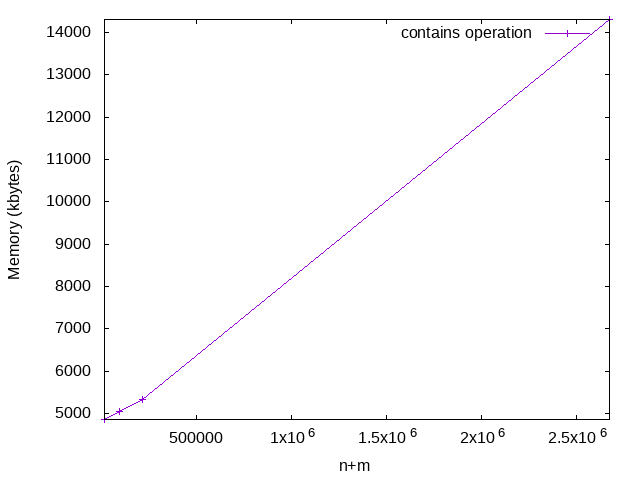
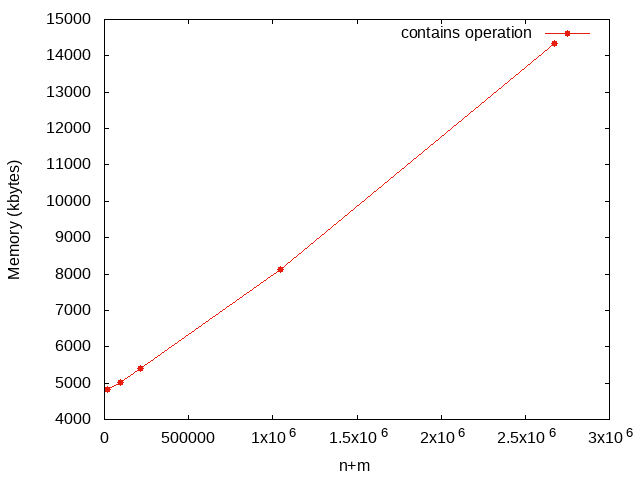
Improve plots

diff --git a/evaluation/contains/contains.cpp b/evaluation/contains/contains.cpp
@@ -59,7 +59,6 @@ int main(int argc, char *argv[]) {
         std::ostringstream path;
         path << argv[1];
         std::ifstream test_case(path.str());
-        uint arcs = 0;
         double sum = 0;
 
         dynamic_ktree::DKtree<2> tree;
@@ -79,14 +78,13 @@ int main(int argc, char *argv[]) {
                 if (substrings[0] == "a") {
                     clock_t start = clock();
                     tree.contains(x, y);
-                    sum += clock() - start;
-                    ++arcs;
+                    clock_t time_iter = clock() - start;
+                    sum = max(sum, time_iter);
 //                    sysinfo (&memInfo);
 //                    totalPhysMem = max( totalPhysMem, getValue());
                 }
             }
         }
-        sum /= arcs;
         sum /= CLOCKS_PER_SEC;
         final += sum;
         test_case.close();

diff --git a/evaluation/contains/create.cpp b/evaluation/contains/create.cpp
@@ -46,7 +46,6 @@ int main(int argc, char *argv[]) {
     tree.serialize(ss, folder);
     ss.close();
 
-    double aux = log(n_vertices) / log(2);
-    std::cout << aux *log(arcs) << " " << (n_vertices + arcs) << std::endl;
+    std::cout << log(n_vertices) / log(2) << " " << (n_vertices + arcs) << std::endl;
     return 0;
 }
